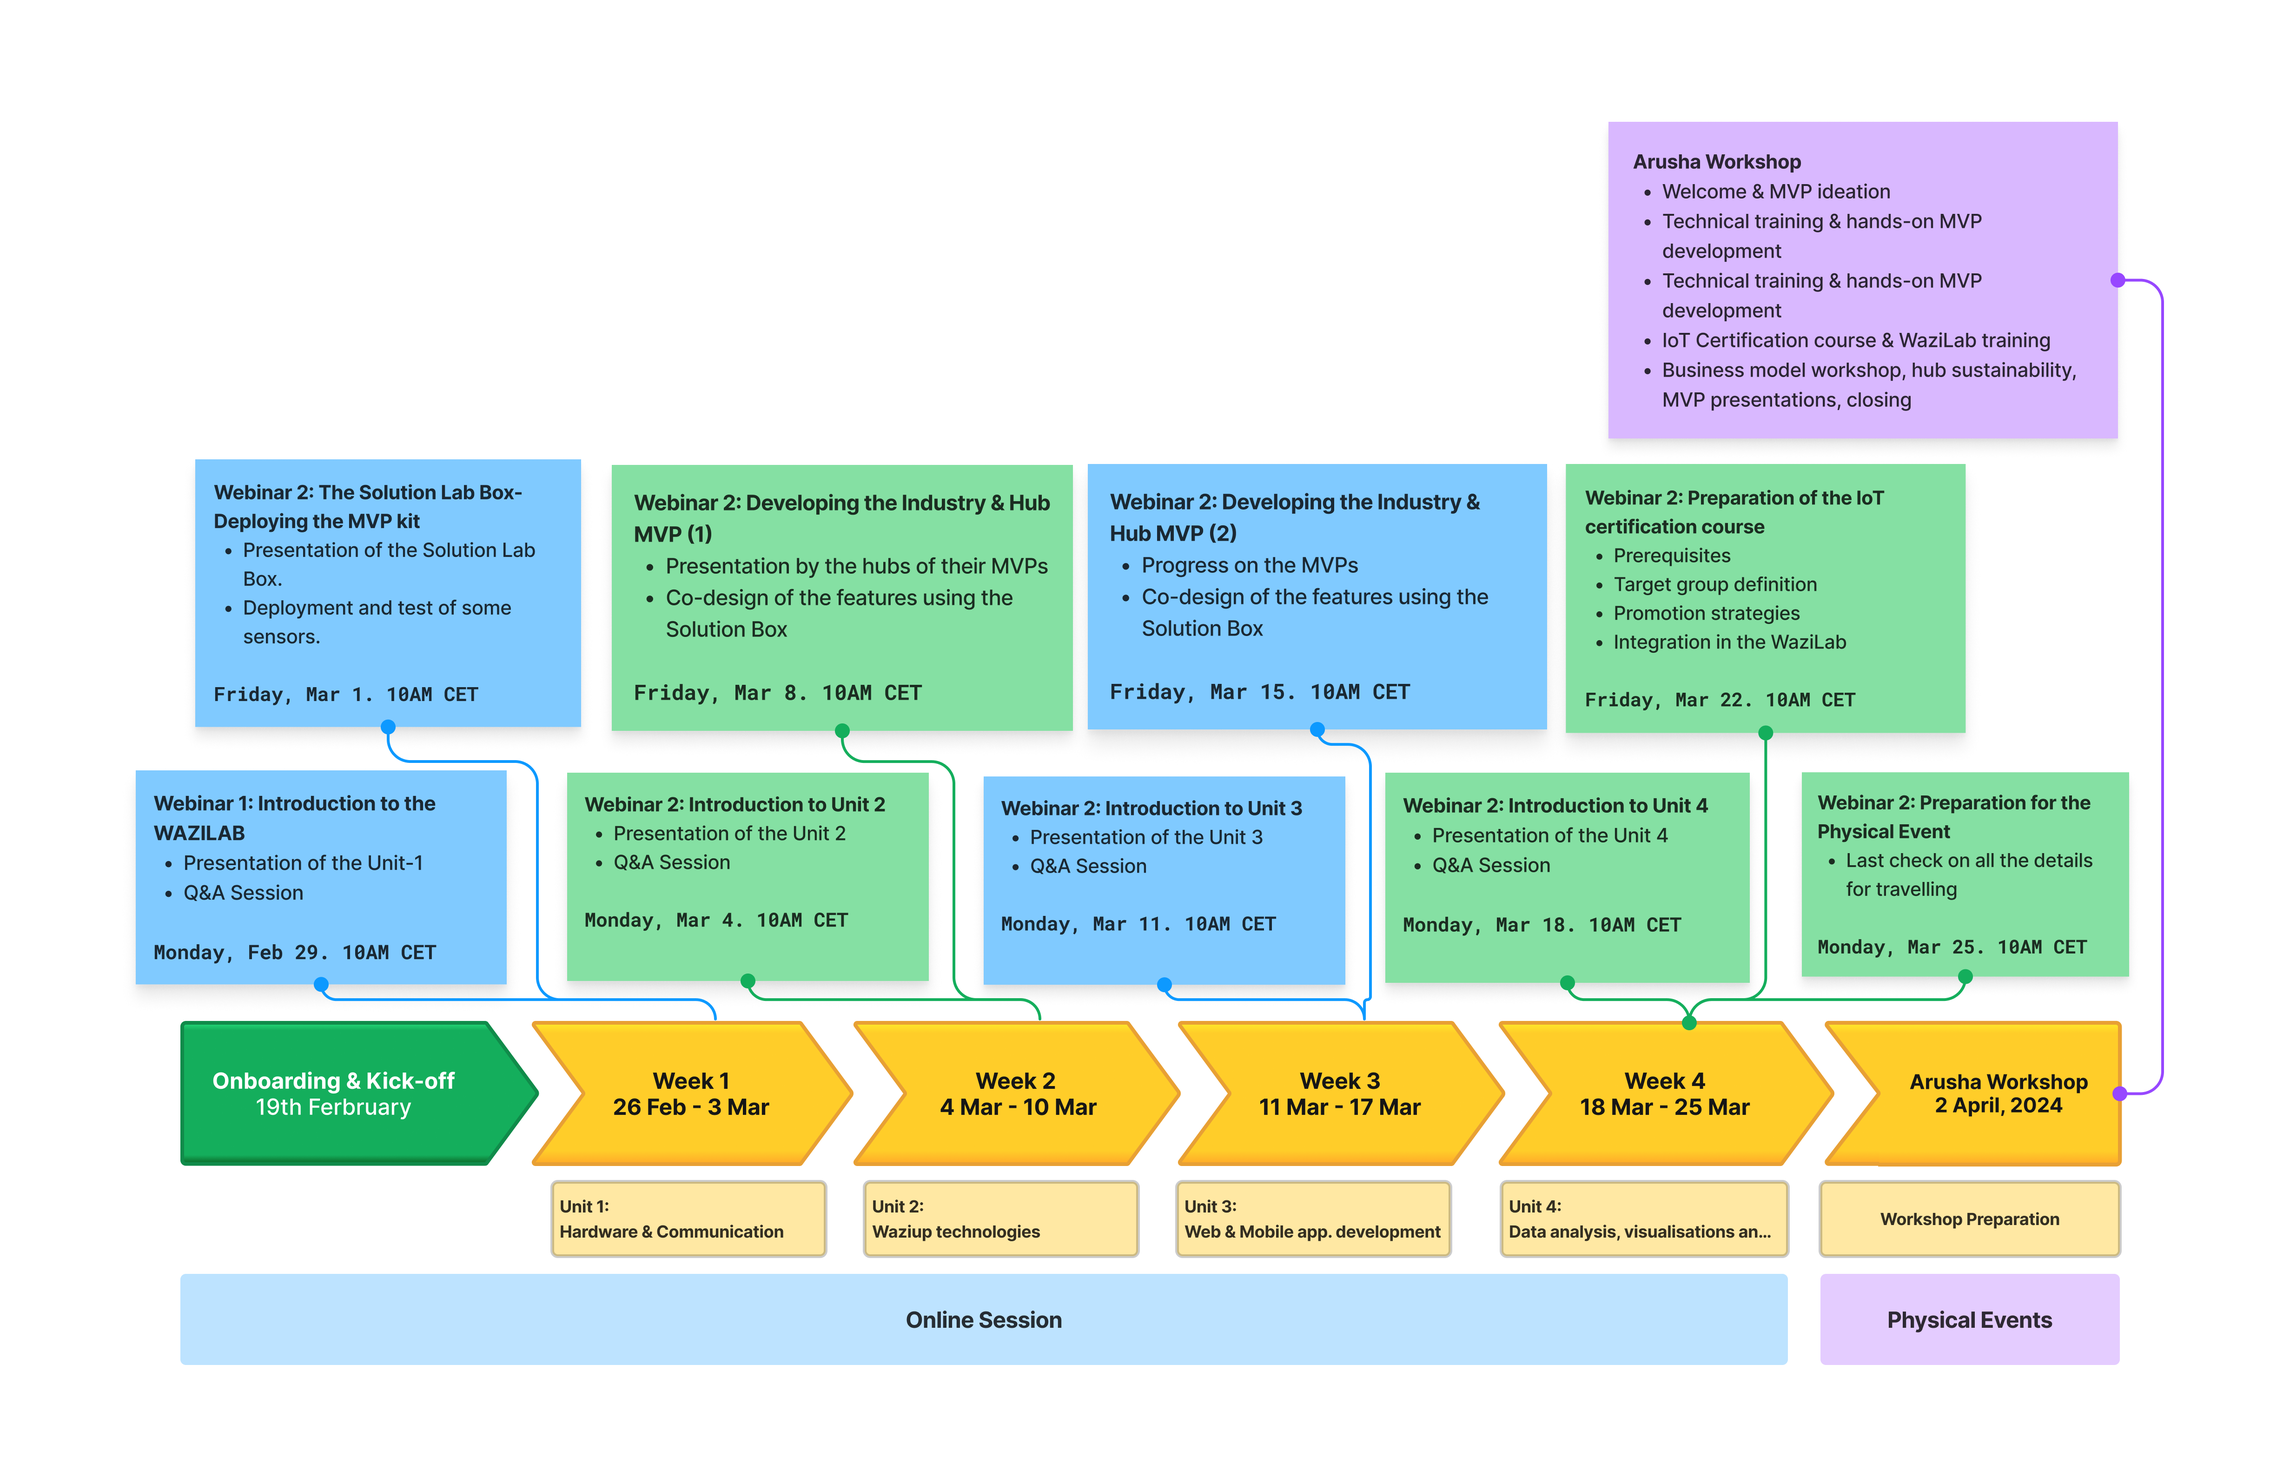
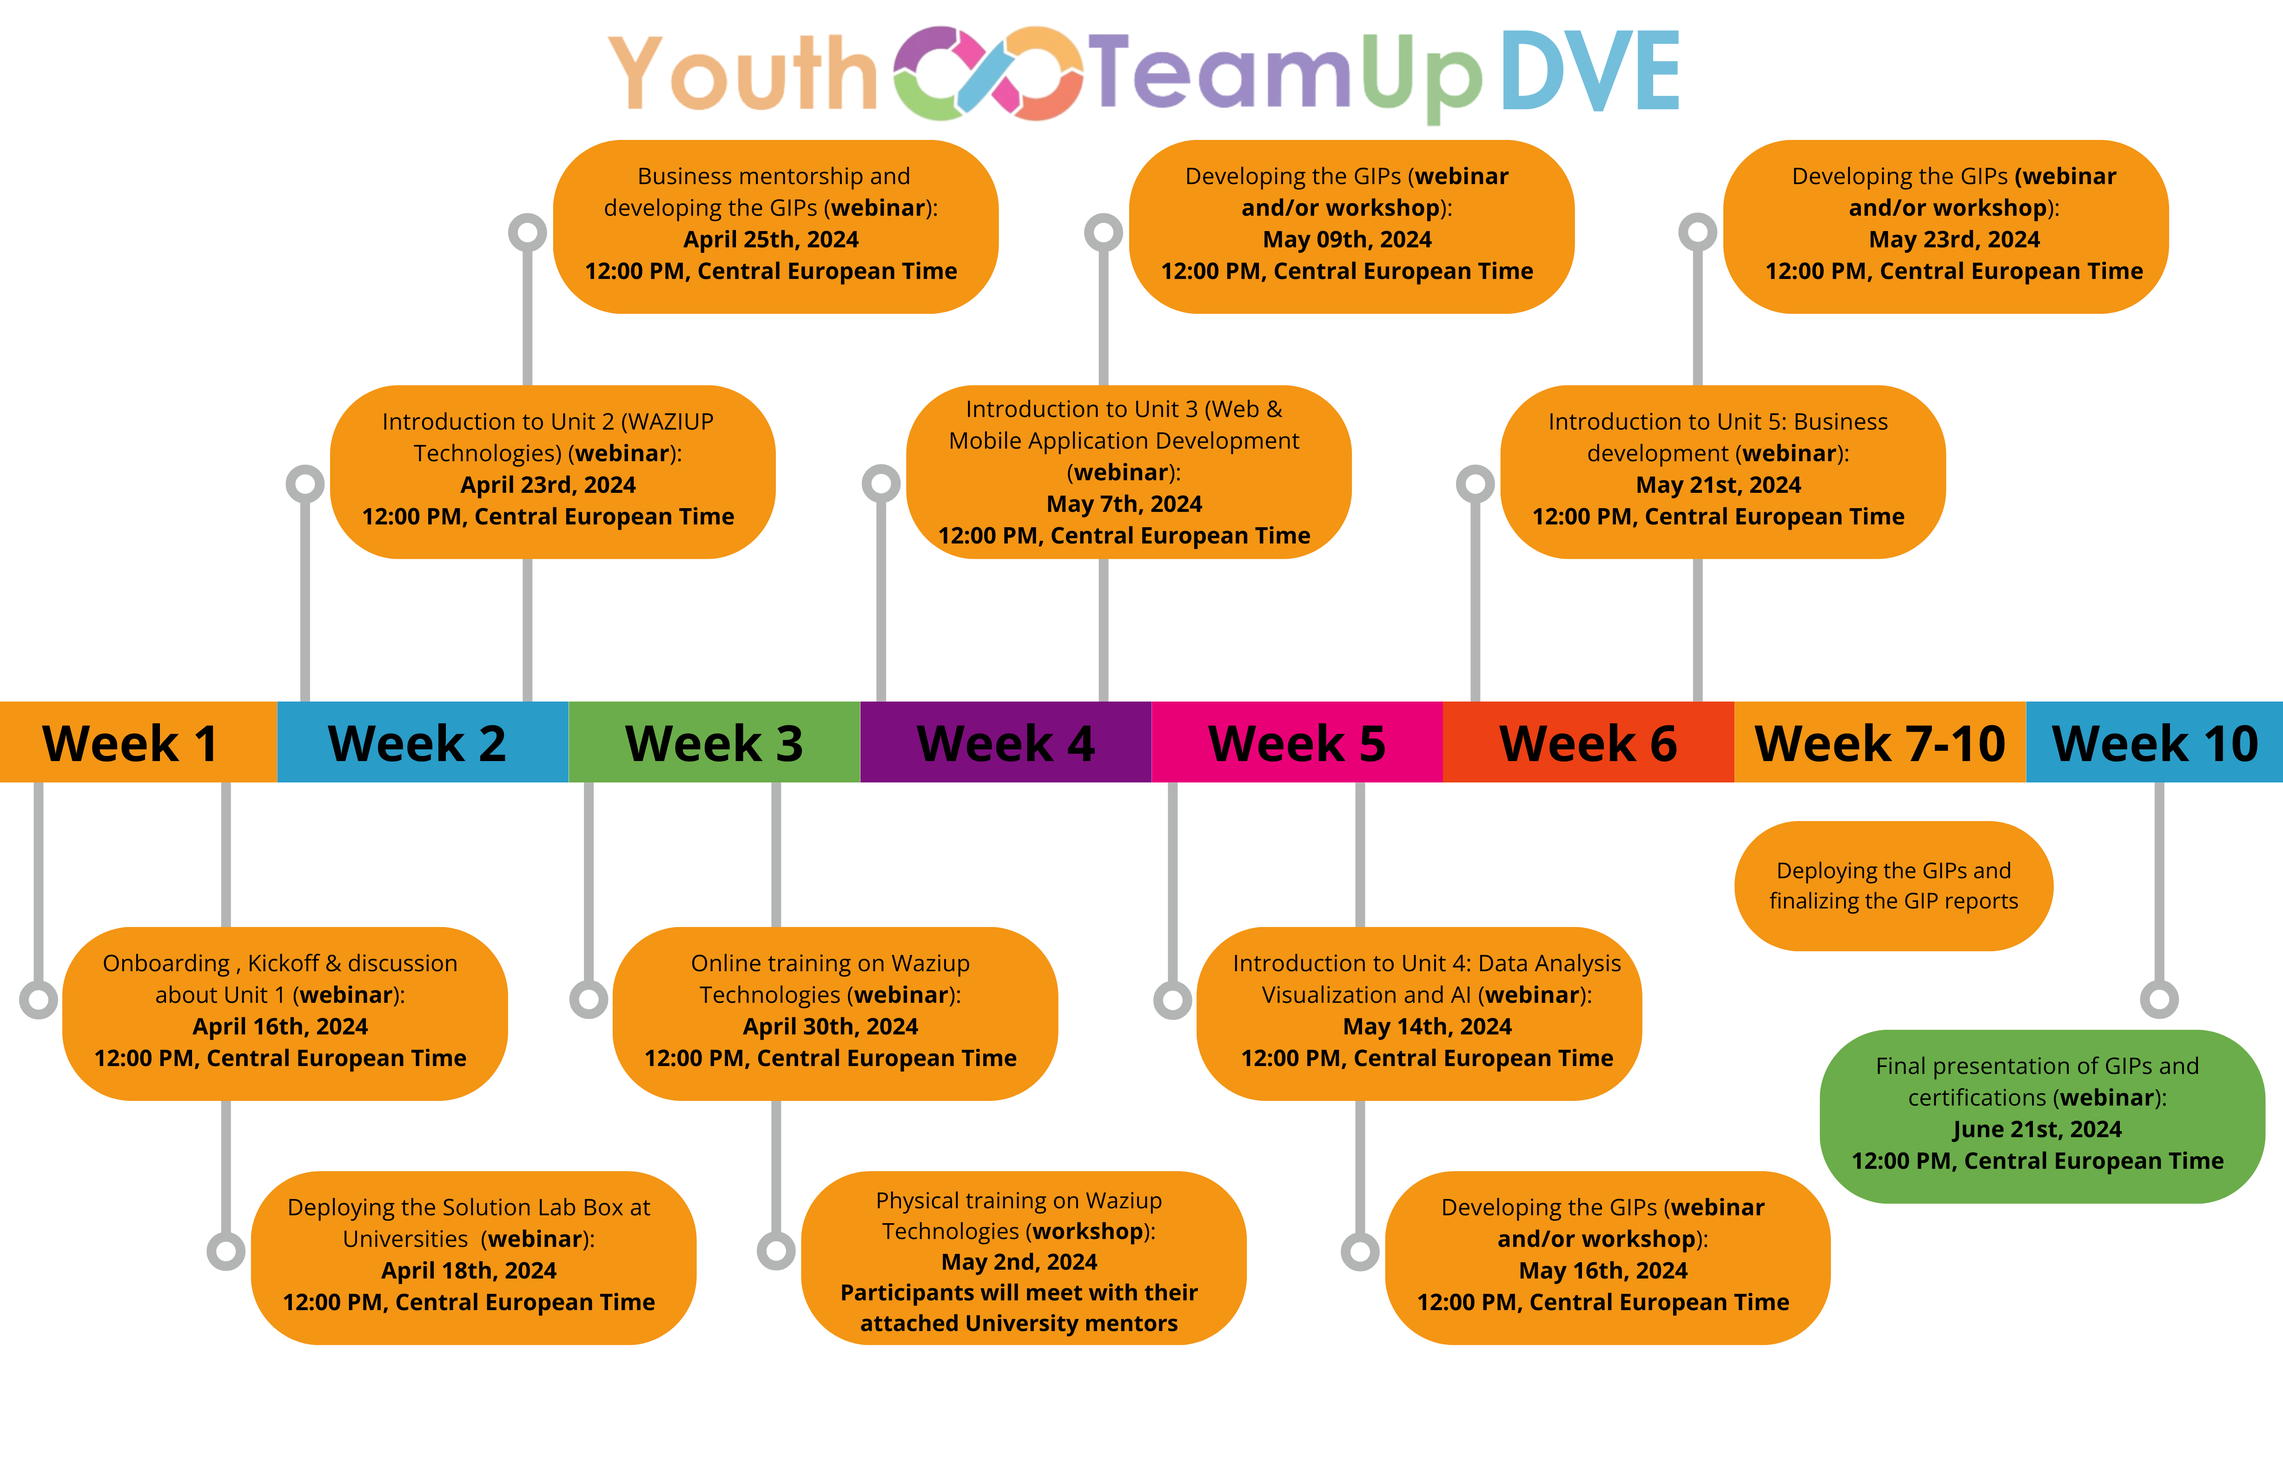
Updated DVE program

diff --git a/content/en/programs/deep-virtual-exchange/units/2_waziup_technologies/index.md b/content/en/programs/deep-virtual-exchange/units/2_waziup_technologies/index.md
@@ -19,8 +19,6 @@ It allows Long range communications with the LoRaWAN network, and can run your a
 
 You should find all the components in your Solution Box. **TODO: describe Solution Box and give a link to the corresponding page.**
 
-<alert type='success'><b>Task 1:</b> Add all the components from the Solution Box in the "My Lab" section.</alert>
-
 ## The WaziDev series
 
 WaziDev, WaziSense and WaziAct are Sensing and Actuation development board for IoT applications. They transmits data up to 7Km using LoRaWAN. It is easily programmable and customizable, using Arduino technology.
@@ -29,10 +27,10 @@ Please go through the course on **WaziDev board series** below.
 
 You can also find the documentation for the boards in the Lab.
 
-<alert type='success'><b>Task 2:</b> Install the WaziDev and WaziSense. Go through all the instruction in [WaziDev](https://lab.waziup.io/resources/waziup/wazidev), and realize the "Blink a LED" and "Temperature and humidity sensor" exercices.</alert>
+<alert type='success'><b>Task 1:</b> Go through all the [WaziDev](https://lab.waziup.io/resources/waziup/wazidev) tutorial and do the "Blink a LED" and "Temperature and humidity sensor" exercises.</alert>
 
 
-When done, please take a picture and upload it in the Drive folder.
+When done, please take a picture of the device with sensor, and a screenshot showing the sensor data on a Serial Monitor; and upload it in the Drive folder.
 
 
 ## The WaziGate
@@ -41,14 +39,13 @@ WaziGate is an IoT LoRaWAN Gateway, ideal for all your remote IoT applications. 
 
 Please go through the course on **WaziGate** course, and also the [WaziGate documentation](https://lab.waziup.io/resources/waziup/wazigate) in the Lab.
 
-<alert type='success'><b>Task 3:</b> You need to install your WaziGate. Please follow the video courses, and also the WaziGate documentation in the Lab.
-Please take a photo of your installed WaziGate!</alert>
+<alert type='success'><b>Task 2:</b> Your University should have a WaziGate that has been setup. Please work with your University technical mentor so that they can setup a LoRaWAN device for you on the WaziGate and guide you on how to send LoRaWAN data from a WaziDev/WaziSense to a WaziGate.</alert>
 
 ## The WaziCloud
 
 Please follow the **WaziCloud** course and execute all the steps.
 
-<alert type='success'><b>Task 4:</b> Make sure that your WaziGate is connected to your WaziCloud account. Please take a photo of your Cloud dashboard and upload it.</alert>
+<alert type='success'><b>Task 3:</b> Make sure that the University's WaziGate is connected to a WaziCloud account. Please take a photo of your WaziCloud dashboard showing a device and sensor values; and upload it to the Drive folder.</alert>
 
 Optionally, you can follow the WaziCloud API course.
 
@@ -56,7 +53,7 @@ Optionally, you can follow the WaziCloud API course.
 
 When you have done all the courses, you should be able to build your first end-to-end prototype with Waziup!
 
-<alert type='success'><b>Task 5:</b> Measure a temperature using the DHT11 sensor, and send it to the WaziCloud dashboard. Please take a photo and upload it.</alert>
+<alert type='success'><b>Task 4:</b> Measure temperature using the DHT11 sensor, and send it to the WaziCloud dashboard using a WaziGate. Please take a photo and upload it.</alert>
 
 
 

diff --git a/content/en/programs/deep-virtual-exchange/index.md b/content/en/programs/deep-virtual-exchange/index.md
@@ -1,7 +1,7 @@
 ---
 id: dve_program
 name: Deep Virtual Exchange
-desc: This program drives Global Innovation Projects (GIP) with cross-disciplinary teams planning and implementing solutions using physical and online infrastructure. University students deploy successful outcomes to local stakeholders and policymakers.
+desc: This is YouthTeamUp's Deep Virtual Exchange (DVE) program. Global Impact Projects (GIPs) are implemented by cross-continental and multidisciplinary teams. By the end of the program, participants' capabilities in emerging technologies such as the Internet of Things (IoT), Artificial Intelligence, product and business development will be enhanced.
 from: 2024-04-15
 to: 2024-06-21
 ---
@@ -10,12 +10,12 @@ to: 2024-06-21
 
 # Overview
 
-The Deep Virtual Exchange Program facilitates global innovation projects (GIP) with cross-disciplinary teams defining tasks, planning responsibilities, and implementing solutions. Utilizing physical and online infrastructure, teams focus on app development, communication, and marketing tasks. Through virtual exchanges, progress is shared for deploying GIP solutions by university students, showcasing successful outcomes to local stakeholders and policymakers. The students will:
+The Deep Virtual Exchange Program facilitates Global Impact Projects (GIPs) with cross-continental and multidisciplinary teams that define tasks, plan responsibilities and implementing solutions. Utilizing physical and online infrastructure, teams focus on projects development (physical prototypes, Web and Mobile applications), communication, and marketing tasks. Through virtual exchanges, progress is shared for deploying GIP solutions by university students, showcasing successful outcomes to local stakeholders and policymakers. The students will:
 
 - Acquire IoT skills and knowledge.
 - Engage in both virtual and in-person training.
-- Receive a "Solution Box" package for setting up or upgrading an in-house IoT labs.
-- Develop or enhance GIPs using IoT technologies.
+- Use a "Solution Box", that will be deployed at their Universities, for learning and implementing their GIPs.
+- Develop and/or enhance GIPs using IoT technologies.
 
 <table>
 <thead>
@@ -49,19 +49,19 @@ The Deep Virtual Exchange Program facilitates global innovation projects (GIP) w
     <td>
         <li>Project development and management skills</li>
         <li>Emerging digital skills</li>
-        <li>Hands-on skills</li>
+        <li>Hands-on skills on IoT and AI</li>
         <li>Digital transformation technologies application</li>
-        <li>GIP development</li> </td>
+        <li>GIP development and deployment</li> </td>
   </tr>
 </tbody>
 </table>
 
 
-<!-- # Timeline
+# Timeline
 
-![timeline](img/timeline.png) -->
+![timeline](img/timeline.png)
 
 # More infos
 
-Please see the [YouthTeamUp Program webpage]
+Please see the [YouthTeamUp Program webpage](https://www.waziup.io/research-innovation/projects/youthteamup/)
 

diff --git a/content/en/programs/deep-virtual-exchange/units/1_hardware_communication/index.md b/content/en/programs/deep-virtual-exchange/units/1_hardware_communication/index.md
@@ -3,7 +3,7 @@ id: hardware_&_communication_unit
 name: Hardware & Communication
 desc: This unit covers the basics of hardware and communications.
 delay_start: 0w
-duration: 2w
+duration: 1w
 courses:
   - id: iot_intro_course
   - id: elec_basic_course
@@ -32,7 +32,7 @@ Please be honest! :)
 
 ![mark](img/mark.png)
 
-<alert type='success'><b>Task 1:</b> Answer the questions in the questionaire at the end of the course.</alert>
+<alert type='success'><b>Task 1:</b> Answer the questions in the questionnaire at the end of the course.</alert>
 
 PS. You can skip this one if you are already familiar with IoT!
 
@@ -43,7 +43,7 @@ Two courses await you on electronics:
 - Advanced electronics for IoT
 
 <alert type='success'><b>Task 2:</b> 
-Please do the exercices in the "Wiring and programming sensors" and the "Arduino programming" courses.
+Please do the exercises in the "Wiring and programming sensors" and the "Arduino programming" courses.
 You need to take a photo of your prototype and upload it the corresponding Drive folder.
 </alert>
 
@@ -58,12 +58,12 @@ Once you have finished with the basic electronics, you can move on to the boards
 
 With those courses, you will have the basic knowledge to create and program you first IoT prototypes!
 
-<alert type='success'><b>Task 3:</b> Please do the exercices in all three courses.</alert>
+<alert type='success'><b>Task 3:</b> Please do the exercises in all three courses.</alert>
 
-The exercices are:
+The exercises are:
 - the questionnaire in the first course
-- the Ultrasonic sensor exercice
-- the LED blinking exercice
+- the Ultrasonic sensor exercise
+- the LED blinking exercise
 You need to take a photo of your prototype and upload it the corresponding Drive folder.
 
 Don't forget to click "Mark topic done" when you have finished.
@@ -73,10 +73,10 @@ Don't forget to click "Mark topic done" when you have finished.
 To complete a full IoT prototype, you also need to know about long range communications.
 We will cover the following course:
 - Wireless communication essentials
-- Wifi radio communications
+- Wi-Fi radio communications
 - LoRa radio communications
 
-<alert type='success'><b>Task 4:</b> Please do the Wifi exercice, and the LoRa exercice. Take a photo of your prototype and upload it to the Drive folder.</alert>
+<alert type='success'><b>Task 4:</b> Please do the Wi-Fi exercise, and the LoRa exercise. Take a photo of your prototype and upload it to the Drive folder.</alert>
 Don't forget to click "Mark topic done" when you have finished.
 
 

diff --git a/content/en/programs/deep-virtual-exchange/units/5_business_models_and_casing/index.md b/content/en/programs/deep-virtual-exchange/units/5_business_models_and_casing/index.md
@@ -1,15 +1,13 @@
 ---
-id: business_mode_and_casing_unit
-name: Program Feedback
-desc: At this part of the program you need to participate the survey.
+id: business_model_unit
+name: Business Model
+desc: This unit will guide you through the development of a successful Business Model Canvas
 delay_start: 4w
-duration: 2w
+duration: 1w
 courses:
     - id: bmc_course
 ---
 
-Your participation in this survey serves as an important tool for gathering valuable feedback and insights. 
+This course will guide you through the development of a successful Business Model Canvas. This course will cover: value proposition, business section and the customer section. 
 
-Moreover, we express our sincere gratitude to you for dedicating your time and energy to complete the program, contributing to its success and enriching our collective experience.
-
-<iframe src="https://docs.google.com/forms/d/e/1FAIpQLScxHiGm543dlTfxUkndRX8-KOJDrzg0E1CKSD3pOO9fXKgMyQ/viewform?embedded=true" width="550px" height="80vh" frameborder="0" marginheight="0" marginwidth="0">Loading…</iframe>
+Please not that the most successful GIPs will be pushed further, with demonstrations to local stakeholders and policy makers.

diff --git a/content/en/programs/deep-virtual-exchange/units/6_participants_survey/index.md b/content/en/programs/deep-virtual-exchange/units/6_participants_survey/index.md
@@ -1,0 +1,13 @@
+---
+id: participants_survey_unit
+name: Program Feedback
+desc: At this part of the program you need to participate the survey.
+delay_start: 4w
+duration: 1d
+---
+
+Your participation in this survey serves as an important tool for gathering valuable feedback and insights. 
+
+Moreover, we express our sincere gratitude to you for dedicating your time and energy to complete the DVE program, contributing to its success and enriching our collective experience.
+
+<iframe src="https://docs.google.com/forms/d/e/1FAIpQLSdJgkM6nPdpL5tOE2DtYwBtbZHP6QBvG_9dNmsR0JZTiB4Uhw/viewform?embedded=true" width="550px" height="80vh" frameborder="0" marginheight="0" marginwidth="0">Loading…</iframe>

diff --git a/content/en/programs/deep-virtual-exchange/units/3_web_mobile_app_dev/index.md b/content/en/programs/deep-virtual-exchange/units/3_web_mobile_app_dev/index.md
@@ -3,7 +3,7 @@ id: aweb_mob_app_dev_unit
 name: Web & Mobile Application Development
 desc: This unit introduces participants to basics of web and mobile app development for IoT platforms, with a focus on the Waziup IoT platform.
 delay_start: 2w
-duration: 2w
+duration: 1w
 courses:
   - id: webapps_course
   - id: rest_course

diff --git a/content/en/programs/deep-virtual-exchange/events/10.webinar/index.md b/content/en/programs/deep-virtual-exchange/events/10.webinar/index.md
@@ -8,11 +8,11 @@ from: 2024-05-21
 
 **Online Webinar**
 
-March 21st, 2024
+May 20th, 2024
 12:00 PM, Central European Time.
 
 **Platform**: Zoom
 
 **Agenda:**
-- LPresentation of the Unit 5: Business development 
+- Presentation of the Unit 5: Business development 
 - Q/A session 

diff --git a/content/en/programs/deep-virtual-exchange/units/4_data_ai/index.md b/content/en/programs/deep-virtual-exchange/units/4_data_ai/index.md
@@ -3,7 +3,7 @@ id: data_ai__unit
 name: Data analysis, visualisations and AI
 desc: This unit will cover the basics of data analysis, visualisation, and AI.
 delay_start: 3w
-duration: 2w
+duration: 1w
 courses:
   - id: ai_fundamentals_course
   - id: ml_course

diff --git a/content/en/programs/deep-virtual-exchange/events/11.webinar/index.md b/content/en/programs/deep-virtual-exchange/events/11.webinar/index.md
@@ -1,7 +1,7 @@
 ---
 id: wb-11
 name: Developing the GIPs 
-desc: Online session to enforce global innovtion projetcs
+desc: Online session to work on Global Impact Projects
 delay_start: 5w
 from: 2024-05-23
 ---

diff --git a/content/en/programs/deep-virtual-exchange/events/7.webinar/index.md b/content/en/programs/deep-virtual-exchange/events/7.webinar/index.md
@@ -1,7 +1,7 @@
 ---
 id: wb-7
 name: Developing the GIPs 
-desc: Online session to enforce global innovtion projetcs
+desc: Online session to work on Global Impact Projects
 delay_start: 3w
 from: 2024-05-09
 ---

diff --git a/content/en/programs/deep-virtual-exchange/events/9.webinar/index.md b/content/en/programs/deep-virtual-exchange/events/9.webinar/index.md
@@ -1,7 +1,7 @@
 ---
 id: wb-9
 name: Developing the GIPs 
-desc: Online session to enforce global innovtion projetcs
+desc: Online session to work on Global Impact Projects
 delay_start: 4w
 from: 2024-05-16
 ---
